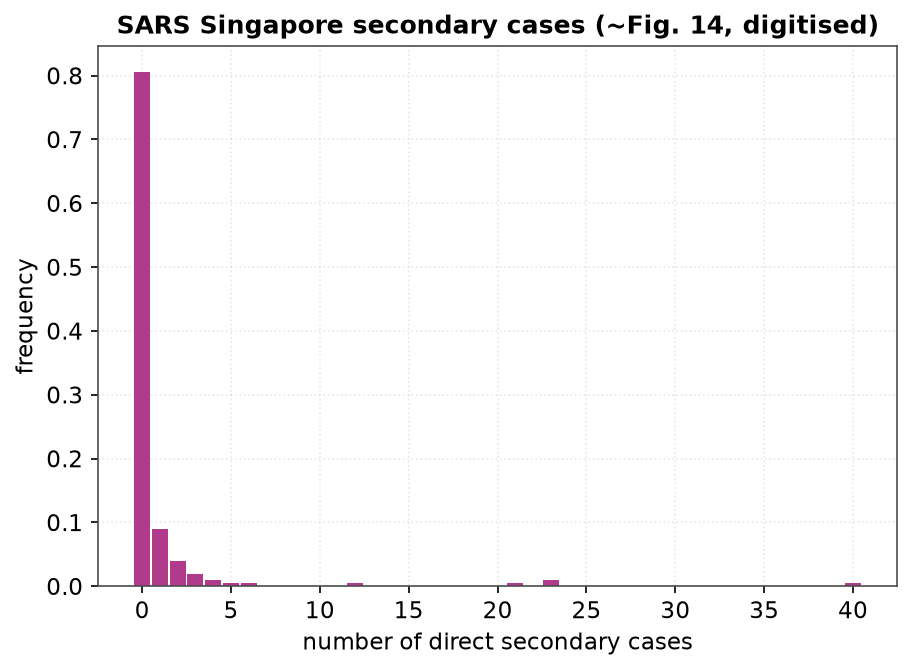
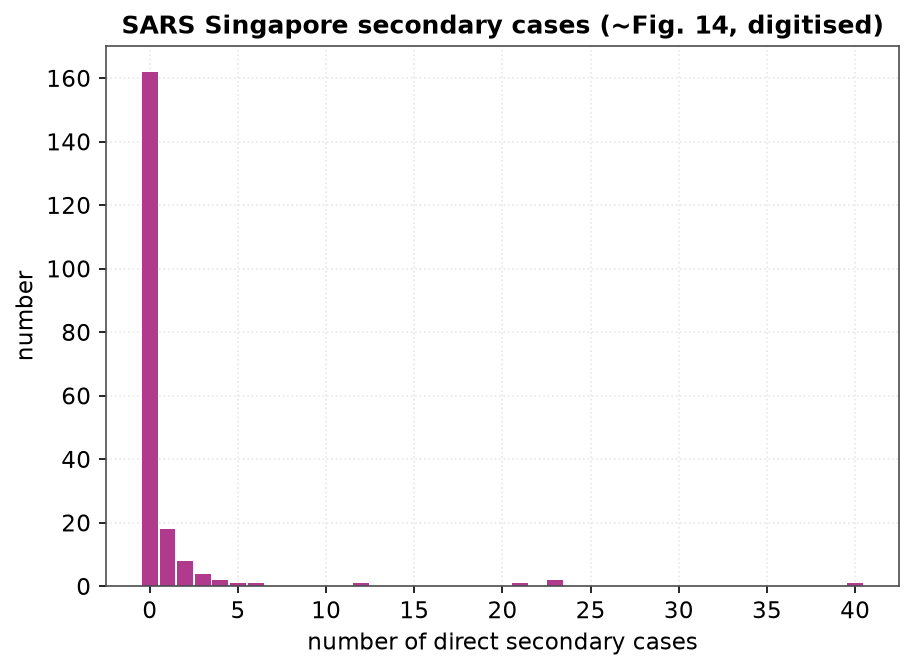
Plot Fig.14 as raw counts, not normalised frequency
The paper's Fig.14 y-axis is "number" (0-180, zero-bin ~160). We were dividing
by the total (normalise=True), showing fractions. Pass normalise=False and
relabel the axis to match the paper.

diff --git a/scripts/05_sars_comparison.py b/scripts/05_sars_comparison.py
@@ -32,7 +32,8 @@ def main():
     print(f"rho*pi*r0^2 = {args.density} -> N = {N} (paper uses N=477)")
 
     # --- Fig. 14: SARS secondary-case distribution (reference) ---
-    c_sars, f_sars = sars_data.sars_secondary_distribution()
+    # Paper plots raw counts ("number", y to 180), not a normalised frequency.
+    c_sars, f_sars = sars_data.sars_secondary_distribution(normalise=False)
     V.plot_sars_secondary(c_sars, f_sars,
                           savepath=B.fig("fig14_sars_secondary.png"))
 

diff --git a/src/spreader/visualize.py b/src/spreader/visualize.py
@@ -275,7 +275,7 @@ def plot_sars_secondary(centres, freq, savepath=None):
     fig, ax = plt.subplots(figsize=(6.2, 4.6))
     ax.bar(centres, freq, width=0.9, color="#b03a8c")
     ax.set_xlabel("number of direct secondary cases")
-    ax.set_ylabel("frequency")
+    ax.set_ylabel("number")
     ax.set_title("SARS Singapore secondary cases (~Fig. 14, digitised)")
     fig.tight_layout()
     _save(fig, savepath)
